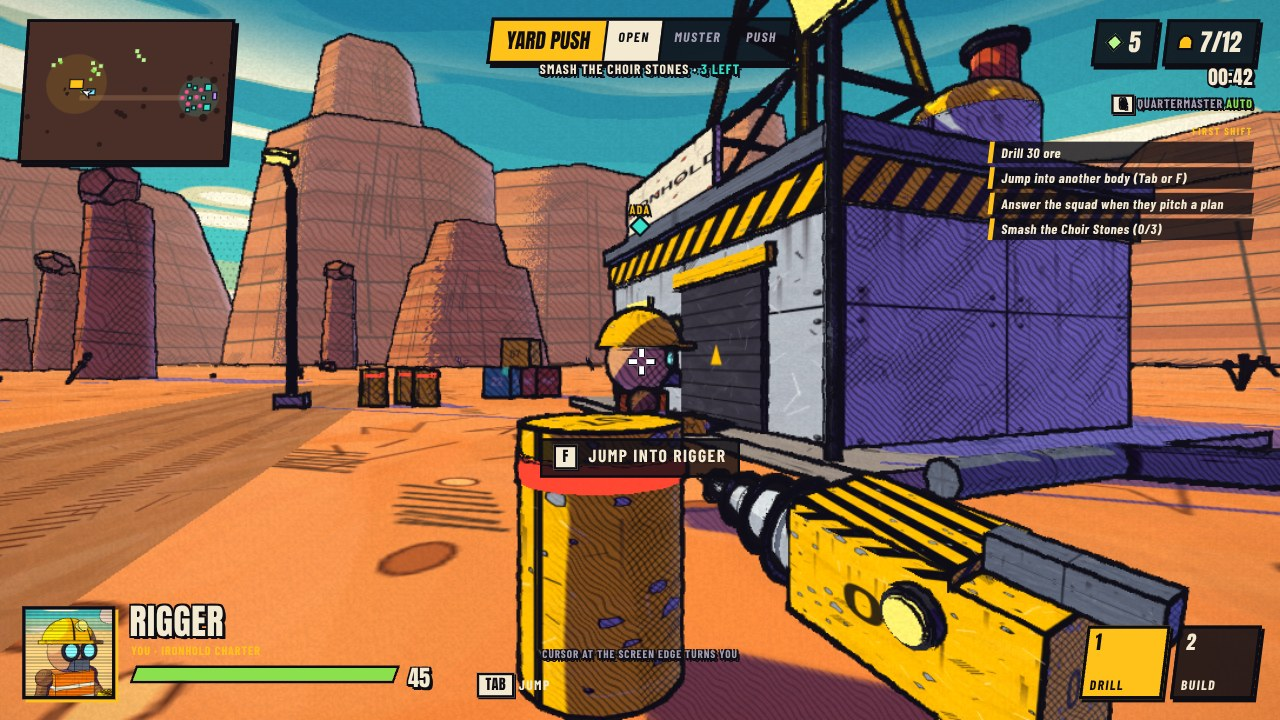
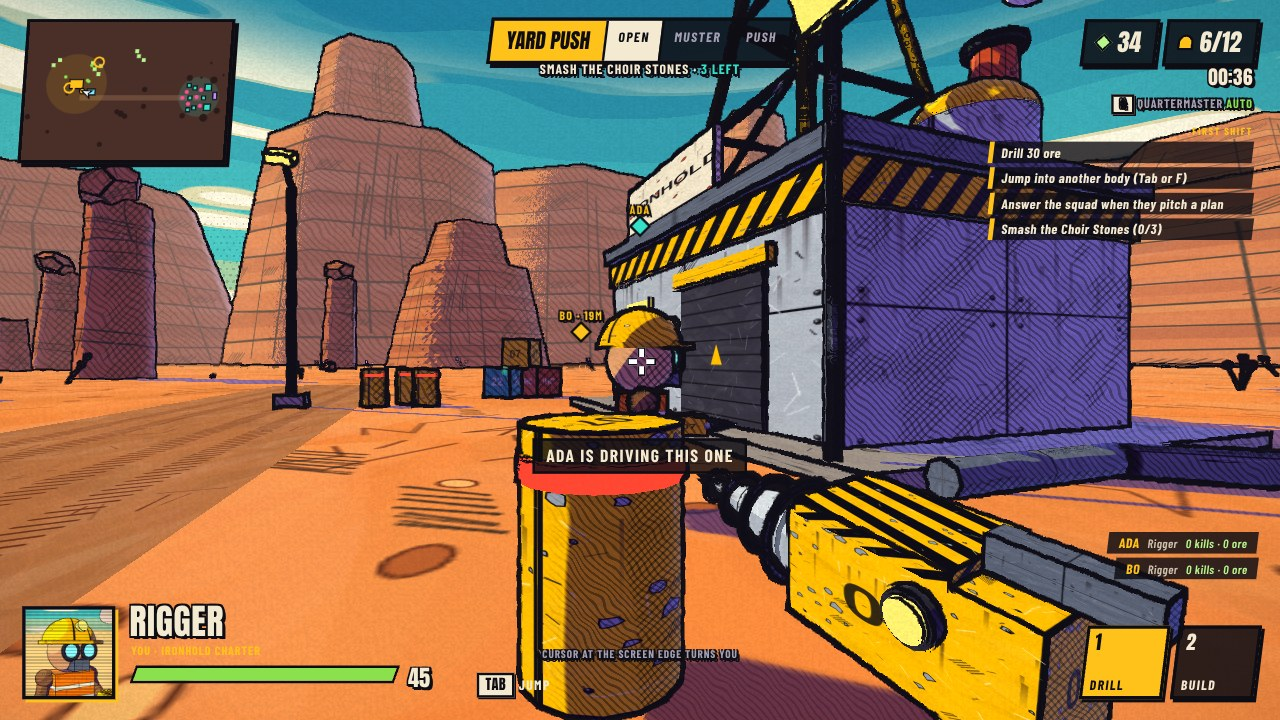
Pings, crew chat, a scoreboard and joining a match in progress
Claude-Session: https://claude.ai/code/session_0142VVw8JKAYPWdtfWeaFFSQ

diff --git a/src/netgame.ts b/src/netgame.ts
@@ -22,7 +22,7 @@ export function buildSnap(g: Game) {
   return {
     t: 's', time: r1(g.time), ore: Math.floor(g.ore), up: UPS.reduce((a, k, i) => a | (g.up[k] ? 1 << i : 0), 0), o: g.ores.map(n => Math.round(n.amount)), u, b,
     d: [r1(D.raidIn), D.raidDir === 'north' ? 1 : 0, D.raidLive ? 1 : 0, D.auto ? 1 : 0, D.plan ? [D.plan.phase, r1(D.plan.t), D.plan.label, D.plan.book] : 0, D.callout ? [D.callout.who, D.callout.text, r1(D.callout.t), D.callout.dur, D.callout.keys] : 0, [D.playbook.name, D.playbook.steps, D.playbook.idx]],
-    st: [Math.floor(st.mined), st.built, st.kills, st.lost], e,
+    st: [Math.floor(st.mined), st.built, st.kills, st.lost], e, sc: Object.keys(g.score).map(k => [+k, g.score[+k][0], Math.floor(g.score[+k][1]), g.score[+k][2]]),
   };
 }
 
@@ -42,12 +42,14 @@ export function serverCmd(g: Game, pid: number, unit: Unit | null, c: any[]) {
   else if (k === 'up') { const u = UPGRADES.find(x => x.key === c[1]); if (u && g.ownB(u.at, true).length) { g.feedTo = pid; g.buyUpgrade(u.key, true); g.feedTo = 0; } }
   else if (k === 'pl') {
     const kind = c[1] as BKind, x = Math.round(num(2)), z = Math.round(num(3)), rot = !!c[4]; if (!BUILDABLE.includes(kind as any)) return;
-    if (g.unlocked(kind) && g.canPlace(kind, x, z, rot) && g.ore >= BLD[kind].cost) { g.place(kind, x, z, rot); g.feedTo = pid; g.feed('Quartermaster', `${BLD[kind].name} staked out. Hold the drill on it to speed things up.`, ''); g.feedTo = 0; }
+    if (g.unlocked(kind) && g.canPlace(kind, x, z, rot) && g.ore >= BLD[kind].cost) { g.place(kind, x, z, rot); if (g.score[pid]) g.score[pid][2]++; g.feedTo = pid; g.feed('Quartermaster', `${BLD[kind].name} staked out. Hold the drill on it to speed things up.`, ''); g.feedTo = 0; }
     else { g.feedTo = pid; g.feed('Quartermaster', `Could not stake out that ${BLD[kind].name}. Somebody beat you to the spot or the ore.`, 'al'); g.feedTo = 0; }
   }
-  else if (k === 'mn') { const n = g.ores[num(1)]; if (!n || !unit || unit.kind !== 'rigger') return; const a = Math.max(0, Math.min(3, num(2), n.amount)); n.amount -= a; g.ore += a; g.stats.mined += a; }
+  else if (k === 'mn') { const n = g.ores[num(1)]; if (!n || !unit || unit.kind !== 'rigger') return; const a = Math.max(0, Math.min(3, num(2), n.amount)); n.amount -= a; g.ore += a; g.stats.mined += a; if (g.score[pid]) g.score[pid][1] += a; }
   else if (k === 'wd') { const b = g.buildings.find(x => x.id === num(1)); if (b && b.alive && b.team === 0 && !b.built) b.progress += Math.min(.6, Math.max(0, num(2))) / BLD[b.kind].time * 1.6; }
   else if (k === 'fx') { const b = g.buildings.find(x => x.id === num(1)); if (b && b.alive && b.team === 0 && b.built) b.hp = Math.min(b.maxHp, b.hp + 40 * Math.min(.6, Math.max(0, num(2)))); }
+  else if (k === 'pg') { const x = Math.max(-400, Math.min(400, num(1))), z = Math.max(-400, Math.min(400, num(2))); g.evq!.push(['pg', pid, x, z]); }
+  else if (k === 'ch') { const t = String(c[1] || '').replace(/[<>&]/g, '').trim().slice(0, 120); if (t) g.evq!.push(['fd', g.names[pid] || 'Crew', t, 'ch']); }
   else if (k === 'pt') { if (unit && unit.kind === 'patch') g.patchUp(unit); }
   else if (k === 'or') { const o = String(c[1]); if ('GVMXZC'.includes(o) && o.length === 1) g.dir.order(o, num(2), num(3), unit); }
 }
@@ -62,7 +64,10 @@ export function serverMove(g: Game, unit: Unit, m: any[]) {
 // ---------------------------------------------------------------- client: snapshot to world
 function event(g: Game, e: any[]) {
   const net = g.net!, k = e[0];
-  if (k === 'fd') { if (!e[4] || e[4] === net.id) { g.hud.feed(e[1], e[2], e[3]); babble(e[1], String(e[2]).length); } }
+  if (k === 'fd') { if (!e[4] || e[4] === net.id) { g.hud.feed(e[1], e[2], e[3]); if (e[3] === 'ch') sfx.blip(); else babble(e[1], String(e[2]).length); } }
+  else if (k === 'pg') { g.pings.push({ pid: e[1], x: e[2], z: e[3], t: 8 }); if (g.pings.length > 8) g.pings.shift(); sfx.callout(); }
+  else if (k === 'nm') { g.names = e[1]; }
+  else if (k === 'ph') { for (const r of e[1]) { const p = g.props[r[0]]; if (p && p.alive && p.hp > r[1]) g.damageProp(p, p.hp - r[1], null); } }
   else if (k === 'tr') { if (e[9] !== net.id) g.tracer(V3(e[1], e[2], e[3]), V3(e[4], e[5], e[6]), e[7] ? beamMat : tracerMat, e[8]); }
   else if (k === 'ex') g.explode(V3(e[1], e[2], e[3]), -2, 0, e[4], null, !!e[5]);
   else if (k === 'pj') { if (e[10] !== net.id) g.shoot(V3(e[1], e[2], e[3]), V3(e[4], e[5], e[6]), e[7], 0, !!e[8], null, e[9]); }
@@ -77,6 +82,7 @@ export function applySnap(g: Game, s: any) {
   for (const e of s.e) event(g, e);
   g.time = s.time; g.ore = s.ore; UPS.forEach((k, i) => { g.up[k] = !!(s.up & (1 << i)); });
   g.ores.forEach((n, i) => { const a = s.o[i]; if (a !== undefined && a !== n.amount) { n.amount = a; g.oreCheck(n); } });
+  if (s.sc) { g.score = {}; for (const r of s.sc) g.score[r[0]] = [r[1], r[2], r[3]]; }
   g.stats.mined = s.st[0]; g.stats.built = s.st[1]; g.stats.kills = s.st[2]; g.stats.lost = s.st[3];
   const seen = new Set<number>();
   for (const r of s.u) {
@@ -133,6 +139,7 @@ export function netTick(g: Game, dt: number) {
   if (me && me.alive) for (const o of g.units) { if (o === me || !o.alive) continue; const dx = me.pos.x - o.pos.x, dz = me.pos.z - o.pos.z, lim = (UNIT[me.kind].rad + UNIT[o.kind].rad) * (o.team === me.team ? 1.1 : 1.25), d2 = dx * dx + dz * dz; if (d2 < lim * lim && d2 > 1e-5) { const d = Math.sqrt(d2); me.pos.x += dx / d * (lim - d); me.pos.z += dz / d * (lim - d); } }
   // damaged friendly buildings smoke, as they do offline
   for (const b of g.buildings) if (b.alive && b.built && b.team === 0 && b.hp < b.maxHp * .5) { b.smokeT -= dt; if (b.smokeT <= 0) { const bad = b.hp < b.maxHp * .25; b.smokeT = bad ? .18 : .4; g.puff(V3(b.pos.x + R(-b.hx, b.hx) * .6, b.h * R(.6, 1), b.pos.z + R(-b.hz, b.hz) * .6), 1, 1.5, bad && Math.random() < .5 ? M.fire : M.smoke, 2.4, .5); } }
+  for (let i = g.pings.length - 1; i >= 0; i--) if ((g.pings[i].t -= dt) <= 0) g.pings.splice(i, 1);
   const D = g.dir; D.raidIn -= dt; if (D.callout) D.callout.t -= dt; if (D.plan) D.plan.t -= dt;
   net.sendT -= dt;
   if (net.sendT <= 0) {

diff --git a/server/main.ts b/server/main.ts
@@ -18,7 +18,7 @@ const pagePath = [join(here, 'index.html'), join(here, '..', 'dist', 'index.html
 let page = pagePath ? readFileSync(pagePath) : Buffer.from('Ore Else server is running, but the game page was not built. Run npm run build.');
 
 interface Player { id: number; name: string; ready: boolean; ws: WebSocket; lobby: Lobby | null; unit: Unit | null; inbox: any[]; alive: boolean }
-interface Lobby { code: string; host: number; map: number; diff: number; players: Player[]; game: Game | null; tick: number; idle: number }
+interface Lobby { code: string; host: number; map: number; diff: number; players: Player[]; game: Game | null; tick: number; idle: number; hp0: number[] }
 const lobbies = new Map<string, Lobby>(); let nextPid = 1;
 const send = (p: Player, o: any) => { if (p.ws.readyState === 1) p.ws.send(JSON.stringify(o)); };
 const cleanName = (s: any) => String(s || '').replace(/[^\w \-'.]/g, '').trim().slice(0, 14) || 'Rigger';
@@ -28,7 +28,7 @@ function tell(l: Lobby) { for (const p of l.players) send(p, { t: 'lobby', code:
 function leave(p: Player) {
   const l = p.lobby; if (!l) return; p.lobby = null;
   if (p.unit && l.game) release(l.game, p);
-  l.players = l.players.filter(x => x !== p);
+  l.players = l.players.filter(x => x !== p); if (l.game) { delete l.game.names[p.id]; l.game.evq!.push(['nm', l.game.names]); l.game.coop = Math.max(1, l.players.length); }
   if (l.game && l.players.length) l.game.feed('Signal', `${p.name} clocked off. Their crew is back on the roster.`, 'al');
   if (!l.players.length) { lobbies.delete(l.code); return; }
   if (l.host === p.id) l.host = l.players[0].id;
@@ -40,11 +40,20 @@ function pilot(g: Game, p: Player, u: Unit) { if (p.unit && p.unit !== u) releas
 
 function begin(l: Lobby) {
   setMap(l.map); const g = new Game(noPipe(), noHud, DIFFS[l.diff], l.map); g.noRender = true; g.evq = []; g.coop = l.players.length; g.me = null; g.phase = 'play';
-  l.game = g; l.tick = 0; const names: Record<number, string> = {}; for (const p of l.players) names[p.id] = p.name; g.names = names;
+  l.game = g; l.tick = 0; l.hp0 = g.props.map(q => q.hp); const names: Record<number, string> = {}; for (const p of l.players) { names[p.id] = p.name; g.score[p.id] = [0, 0, 0]; } g.names = names;
   const riggers = g.own('rigger'); l.players.forEach((p, i) => { p.inbox = []; p.unit = null; pilot(g, p, riggers[i % riggers.length]); });
   for (const p of l.players) send(p, { t: 'begin', map: l.map, diff: l.diff, unit: p.unit!.id, names });
   g.feed('Quartermaster', l.players.length > 1 ? `${l.players.length} of you on one payroll. The Veyl have noticed and are sending more.` : 'Just you tonight. Clock in.', 'in');
   tell(l);
+}
+/** A player arrives while the shift is running: a late start, or coming back after a dropped connection. */
+function joinLive(l: Lobby, p: Player) {
+  const g = l.game!; setMap(l.map); p.inbox = []; p.unit = null; l.players.push(p); p.lobby = l; p.ready = true;
+  g.names[p.id] = p.name; if (!g.score[p.id]) g.score[p.id] = [0, 0, 0]; g.coop = l.players.length;
+  const u = g.own('rigger').find(x => !x.pilot) || g.soldiers().find(x => !x.pilot) || g.spawn('rigger', 0, 2 + Math.random() * 3, 7 + Math.random() * 2); pilot(g, p, u);
+  const ph: number[][] = []; g.props.forEach((q, i) => { if (!q.alive) ph.push([i, 0]); else if (q.hp < l.hp0[i]) ph.push([i, Math.ceil(q.hp)]); });
+  send(p, { t: 'begin', map: l.map, diff: l.diff, unit: u.id, names: g.names, ph });
+  g.evq!.push(['nm', g.names]); g.feed('Signal', `${p.name} clocked in late. Docked accordingly.`, 'in'); tell(l);
 }
 function step(l: Lobby) {
   const g = l.game!; setMap(l.map);
@@ -87,13 +96,13 @@ wss.on('connection', ws => {
     if (m.t === 'in') { if (l && l.game && p.inbox.length < 30) p.inbox.push(m); return; }
     if (m.t === 'create') {
       if (l) leave(p); if (lobbies.size >= MAX_LOBBIES) { send(p, { t: 'err', msg: 'The server is full. Try again in a few minutes.' }); return; }
-      p.name = cleanName(m.name); p.ready = false; const nl: Lobby = { code: newCode(), host: p.id, map: 0, diff: 1, players: [p], game: null, tick: 0, idle: 0 }; lobbies.set(nl.code, nl); p.lobby = nl; tell(nl);
+      p.name = cleanName(m.name); p.ready = false; const nl: Lobby = { code: newCode(), host: p.id, map: 0, diff: 1, players: [p], game: null, tick: 0, idle: 0, hp0: [] }; lobbies.set(nl.code, nl); p.lobby = nl; tell(nl);
     } else if (m.t === 'join') {
       if (l) leave(p); const jl = lobbies.get(String(m.code || '').toUpperCase().trim());
       if (!jl) { send(p, { t: 'err', msg: 'No lobby with that code. Check the five letters.' }); return; }
       if (jl.players.length >= MAX_PLAYERS) { send(p, { t: 'err', msg: 'That lobby is full.' }); return; }
-      if (jl.game) { send(p, { t: 'err', msg: 'That crew is mid-shift. Ask them for the code again when they finish.' }); return; }
-      p.name = cleanName(m.name); p.ready = false; jl.players.push(p); p.lobby = jl; tell(jl);
+      p.name = cleanName(m.name); if (jl.game) { joinLive(jl, p); return; }
+      p.ready = false; jl.players.push(p); p.lobby = jl; tell(jl);
     } else if (!l) return;
     else if (m.t === 'leave') { leave(p); send(p, { t: 'lobby', code: '', you: p.id, host: 0, map: 0, diff: 1, state: 'lobby', players: [] }); }
     else if (m.t === 'ready') { p.ready = !!m.v; tell(l); }

diff --git a/src/hud.ts b/src/hud.ts
@@ -103,6 +103,7 @@ export class Hud {
     let bi = 0, li = 0;
     const bar = (p: THREE.Vector3, y: number, frac: number, cls: string) => { if (bi >= this.bars.length) return; V.set(p.x, y, p.z); const q = V.clone(); if (!this.project(q, cam)) return; const b = this.bars[bi]; if (b.className !== cls) b.className = cls; b.hidden = false; b.style.transform = `translate(${V.x.toFixed(1)}px,${V.y.toFixed(1)}px)`; this.barFill[bi].style.width = Math.max(0, Math.min(1, frac)) * 100 + '%'; bi++; };
     const lab = (p: THREE.Vector3, y: number, html: string) => { if (li >= this.labs.length) return; const q = new THREE.Vector3(p.x, y, p.z); if (!this.project(q, cam)) return; const l = this.labs[li]; l.hidden = false; l.style.transform = `translate(${Math.max(150, Math.min(this.W - 150, V.x)).toFixed(1)}px,${Math.max(130, V.y).toFixed(1)}px)`; const k = 'l' + li; if (this.cache.get(k) !== html) { this.cache.set(k, html); l.firstElementChild!.innerHTML = html; } li++; };
+    for (const p of g.pings) lab(V.set(p.x, 0, p.z).clone(), 2.2, `<div class="mark ping out">${g.names[p.pid] || 'Ping'} · ${Math.round(Math.hypot(p.x - me.pos.x, p.z - me.pos.z))}m</div>`);
     for (const u of g.units as Unit[]) {
       if (!u.alive || u === me && !tab) continue; const d = u.pos.distanceTo(me.pos);
       if (u.pilot && u !== me && g.names[u.pilot] && d < 120) lab(u.pos, UNIT[u.kind].headY + 1.25, `<div class="mark out" style="color:var(--yel)">${g.names[u.pilot]}</div>`);
@@ -133,9 +134,14 @@ export class Hud {
       const pop = k < .15 ? .6 + k / .15 * .6 : 1.2 - Math.min(1, (k - .15) * 2) * .2; f.el.style.opacity = k > .7 ? ((1 - k) / .3).toFixed(2) : '1'; f.el.style.transform = `translate(${V.x.toFixed(1)}px,${V.y.toFixed(1)}px) translate(-50%,-50%) scale(${pop.toFixed(2)}) rotate(-6deg)`;
     }
     // minimap
-    this.miniT -= dt; if (this.miniT <= 0) { this.miniT = .12; this.drawMini(g); }
+    this.miniT -= dt; if (this.miniT <= 0) { this.miniT = .12; this.drawMini(g); this.crew(g); }
   }
 
+  private crew(g: Game) {
+    const el = $('crew'); if (!g.net) { if (!el.hidden) el.hidden = true; return; }
+    const html = Object.keys(g.names).map(k => { const id = +k, u = (g.units as Unit[]).find(x => x.alive && x.pilot === id), s = g.score[id] || [0, 0, 0]; return `<div class="${id === g.net!.id ? 'me' : ''}"><b>${g.names[id]}</b><span>${u ? UNIT[u.kind].name : 'Down'}</span><em>${s[0]} kills · ${s[1]} ore</em></div>`; }).join('');
+    if (this.cache.get('crew') !== html) { this.cache.set('crew', html); el.innerHTML = html; } el.hidden = false;
+  }
   private drawMini(g: Game) {
     const c = this.mini, S = 260, span = Math.max(200, Math.abs(OUTPOST.x) + 76, (Math.abs(OUTPOST.z) + 70) / .69), x0 = OUTPOST.x / 2 - span / 2 + (MAP === MAPS[0] ? -12 : 0), z0 = OUTPOST.z / 2 - span * .345 + (MAP === MAPS[0] ? .5 : 0), k = S / span, X = (x: number) => (x - x0) * k, Z = (z: number) => (z - z0) * k;
     c.fillStyle = '#4a2f29'; c.fillRect(0, 0, S, 180);
@@ -147,6 +153,8 @@ export class Hud {
     c.lineWidth = 1.5; c.strokeStyle = '#0e0d14';
     for (const b of g.buildings) { if (!b.alive) continue; const w = Math.max(5, b.hx * 2 * k), h = Math.max(5, b.hz * 2 * k); c.fillStyle = b.kind === 'reedgate' ? '#c58bff' : b.team ? '#35e0c8' : b.built ? '#ffc21a' : '#7ef0ff'; c.fillRect(X(b.pos.x) - w / 2, Z(b.pos.z) - h / 2, w, h); c.strokeRect(X(b.pos.x) - w / 2, Z(b.pos.z) - h / 2, w, h); }
     for (const u of g.units) { if (!u.alive || u === g.me) continue; c.fillStyle = u.team ? '#ff4f9a' : u.kind === 'rigger' ? '#8be04e' : '#f4ead2'; c.beginPath(); c.arc(X(u.pos.x), Z(u.pos.z), u.kind === 'warden' ? 5 : u.team ? 2.6 : 2.2, 0, 7); c.fill(); }
+    for (const p of g.pings) { c.strokeStyle = '#ffc21a'; c.lineWidth = 2.5; c.beginPath(); c.arc(X(p.x), Z(p.z), 4 + (8 - p.t) % 1 * 7, 0, 7); c.stroke(); }
+    for (const u of g.units) if (u.alive && u.pilot && u !== g.me) { c.fillStyle = '#ffc21a'; c.strokeStyle = '#0e0d14'; c.lineWidth = 1.5; c.beginPath(); c.arc(X(u.pos.x), Z(u.pos.z), 3.6, 0, 7); c.fill(); c.stroke(); }
     const D = g.dir; if ((D.raidIn < 15 || D.raidLive) && g.stones().length && Math.floor(performance.now() / 300) % 2) { c.fillStyle = '#ff4b3a'; c.strokeStyle = '#0e0d14'; c.lineWidth = 2; c.beginPath(); { const n = NORTH_PATH.length, p = D.raidDir === 'north' ? [(NORTH_PATH[n - 1][0] + NORTH_PATH[n - 2][0]) / 2, (NORTH_PATH[n - 1][1] + NORTH_PATH[n - 2][1]) / 2] : roadPt(62), a = Math.atan2(-p[1], -p[0]); c.moveTo(X(p[0]) + Math.cos(a) * 9, Z(p[1]) + Math.sin(a) * 9); c.lineTo(X(p[0]) + Math.cos(a + 2.4) * 8, Z(p[1]) + Math.sin(a + 2.4) * 8); c.lineTo(X(p[0]) + Math.cos(a - 2.4) * 8, Z(p[1]) + Math.sin(a - 2.4) * 8); } c.closePath(); c.fill(); c.stroke(); }
     if (this.pingT > 0) { c.strokeStyle = '#ffc21a'; c.lineWidth = 2; c.beginPath(); c.arc(X(this.pingPos.x), Z(this.pingPos.z), 5, 0, 7); c.stroke(); }
     const me = g.me; if (me) { c.save(); c.translate(X(me.pos.x), Z(me.pos.z)); c.rotate(-g.yaw); c.fillStyle = '#fff'; c.strokeStyle = '#0e0d14'; c.lineWidth = 1.5; c.beginPath(); c.moveTo(0, 8); c.lineTo(5, -5); c.lineTo(0, -2); c.lineTo(-5, -5); c.closePath(); c.fill(); c.stroke(); c.restore(); }

diff --git a/src/main.ts b/src/main.ts
@@ -54,7 +54,13 @@ window.addEventListener('resize', resize);
 // ---------------------------------------------------------------- input
 const locked = () => document.pointerLockElement === canvas;
 const live = () => game.phase === 'play' || game.phase === 'card';
+let lastCode = '';
+const chat = $('chat') as HTMLInputElement;
+const chatClose = () => { chat.hidden = true; chat.value = ''; chat.blur(); };
+chat.addEventListener('keydown', e => { e.stopPropagation(); if (e.key === 'Enter') { const t = chat.value.trim(); if (t && game.net) game.net.cmd('ch', t); chatClose(); } else if (e.key === 'Escape') { e.preventDefault(); chatClose(); } });
+chat.addEventListener('keyup', e => e.stopPropagation()); chat.addEventListener('blur', () => { chat.hidden = true; });
 addEventListener('keydown', e => {
+  if (game.net && game.phase === 'play' && e.code === 'Enter') { e.preventDefault(); game.keys.clear(); chat.hidden = false; chat.focus(); return; }
   if (live()) { if (!e.ctrlKey && !e.metaKey && e.code !== 'Escape' && !/^F\d/.test(e.code)) e.preventDefault(); if (!e.repeat) game.pressed.add(e.code); game.keys.add(e.code); }
   if (e.code === 'Escape' && freeMouse) { if (game.phase === 'play') pause(); else if (game.phase === 'paused') resume(); }
 });
@@ -120,10 +126,10 @@ async function mpConnect(then: (n: Net) => void) {
   if (!srv) { mErr('This copy of the game is not on a game server, so there is nobody to connect to. Open the game from its server address, or paste a server address above.'); return; }
   if (net && net.open) { then(net); return; }
   mErr('Connecting...'); const n = new Net();
-  n.onLobby = l => { showLobby(l); if (l.code) mErr(''); }; n.onError = m => mErr(m);
-  n.onClose = () => { net = null; if (game.net) { game.net = null; toMenu(); } showMode(); mErr('Lost the connection to the server.'); };
+  n.onLobby = l => { showLobby(l); if (l.code) { mErr(''); lastCode = l.code; } }; n.onError = m => mErr(m);
+  n.onClose = () => { net = null; if (game.net) { game.net = null; toMenu(); } showMode(); if (lastCode) { mCode.value = lastCode; mErr('Lost the connection. Press Join to get back into lobby ' + lastCode + '.'); } else mErr('Lost the connection to the server.'); };
   n.onBegin = m => {
-    mode = 'multi'; hud.reset(); game = new Game(pipe, hud, DIFFS[m.diff], m.map, null, n); game.sens = sens; game.names = m.names; ended = false; (window as any).__ore.game = game;
+    mode = 'multi'; hud.reset(); game = new Game(pipe, hud, DIFFS[m.diff], m.map, null, n); game.sens = sens; game.names = m.names; if (m.ph) { game.applying = true; for (const r of m.ph) { const q = game.props[r[0]]; if (q && q.alive && q.hp > r[1]) game.damageProp(q, q.hp - r[1], null); } game.applying = false; } ended = false; (window as any).__ore.game = game;
     initAudio(); setVolume(vol); setMusic(mus); $('menu').hidden = true; $('pause').hidden = true; $('end').hidden = true; hud.show(true); game.phase = 'play'; game.introT = 1.8; lock();
   };
   try { await n.connect(srv); net = n; mErr(''); then(n); } catch (e) { mErr(String((e as Error).message || e) + ' Check the server address.'); }

diff --git a/src/game.ts b/src/game.ts
@@ -95,7 +95,7 @@ export class Game {
   // ------------------------------------------------------------ entities
   /** Multiplayer server: things clients need to see or hear, queued until the next snapshot. */
   uById = new Map<number, Unit>(); bById = new Map<number, Building>();
-  evq: any[] | null = null; coop = 1; applying = false; names: Record<number, string> = {}; feedTo = 0;
+  evq: any[] | null = null; coop = 1; applying = false; names: Record<number, string> = {}; feedTo = 0; score: Record<number, number[]> = {}; pings: { x: number; z: number; t: number; pid: number }[] = [];
   spawn(kind: Kind, team: number, x: number, z: number, id = 0): Unit {
     const md = MD.unit(kind), st = UNIT[kind], hp = st.hp * (team === 0 ? this.armorMul() : 1);
     const rs = st.rad * 3.6, ring = mk(G.ringG, ringMat, [0, .08, 0], [rs, rs, 1], [-Math.PI / 2, 0, 0], md.obj); ring.layers.set(L_FX); ring.visible = false;
@@ -211,7 +211,7 @@ export class Game {
   }
   quiet = false;
   killUnit(u: Unit, from: Unit | Building | null) {
-    if (this.evq) this.evq.push(['ku', u.id, from ? from.id : 0]);
+    if (this.evq) { this.evq.push(['ku', u.id, from ? from.id : 0]); const kp = from && (from as Unit).pilot; if (kp && u.team === 1 && this.score[kp]) this.score[kp][0]++; }
     if (u.kind === 'gantry' && u.alive && !this.net) { u.alive = false; this.explode(V3(u.pos.x, 0, u.pos.z), 0, 40, 6, null); u.alive = true; }
     u.alive = false; const veyl = u.team === 1, v = this.vol(u.pos), st = UNIT[u.kind], c = V3(u.pos.x, st.bodyY, u.pos.z);
     this.puff(c, veyl ? 6 : 4, st.rad * 1.4, veyl ? M.teal : M.dust); this.debris(c, veyl ? 7 : 3, .22, veyl ? M.crys : M.steelD, 5); sfx.ko(v, veyl);
@@ -391,6 +391,7 @@ export class Game {
     this.fireCd -= dt; this.recoil = Math.max(0, this.recoil - dt * 6); this.nadeCd = Math.max(0, this.nadeCd - dt); this.bashCd = Math.max(0, this.bashCd - dt); this.bashT = Math.max(0, this.bashT - dt);
     const eye = V3(me.pos.x, UNIT[me.kind].eye, me.pos.z), dir = this.lookDir(V3());
     this.prompt = '';
+    if (this.net && P.has('KeyT')) { const pp = V3(); if (!this.groundPoint(pp, 400)) pp.set(me.pos.x + dir.x * 40, 0, me.pos.z + dir.z * 40); this.net.cmd('pg', Math.round(pp.x), Math.round(pp.z)); }
     if (P.has('KeyQ') && this.lastBody?.alive) { this.possess(this.lastBody); return; }
     const look = this.ray(eye, dir, 70, -1, me);
     if (look?.unit && look.unit.team === 0 && look.unit.pilot) this.prompt = `${this.names[look.unit.pilot] || 'A crewmate'} is driving this one`; else if (look?.unit && look.unit.team === 0) { this.prompt = `<b>F</b> Jump into ${UNIT[look.unit.kind].name}`; if (P.has('KeyF')) { this.possess(look.unit); return; } }

diff --git a/src/style.css b/src/style.css
@@ -247,3 +247,10 @@ body{background:var(--bg);color:var(--paper);font-family:var(--cond);font-size:1
 .go:disabled{opacity:.5;cursor:not-allowed}
 
 #mPlayers button[disabled]{opacity:1;cursor:default}
+
+.crew{right:28px;bottom:176px;display:flex;flex-direction:column;gap:5px;align-items:flex-end}
+.crew div{background:rgba(14,13,20,.84);border-right:6px solid var(--cream);padding:3px 12px 4px 14px;transform:skewX(-7deg);font-size:15px;font-weight:600;letter-spacing:.04em;display:flex;gap:10px;align-items:baseline}
+.crew div.me{border-color:var(--yel)}
+.crew b{color:var(--yel);text-transform:uppercase;font-size:17px}.crew span{opacity:.8}.crew em{font-style:normal;color:var(--ore)}
+.chat{left:28px;bottom:150px;width:440px;font:600 20px inherit;font-family:inherit;color:var(--cream);background:rgba(14,13,20,.92);border:3px solid var(--yel);padding:8px 12px;outline:none;pointer-events:auto}
+.feed .ch{border-color:var(--teal)}.feed .ch b{color:var(--teal)}

diff --git a/src/net.ts b/src/net.ts
@@ -7,7 +7,7 @@ export class Net {
   /** Snapshots and other in-match messages wait here until the game loop is ready for them. */
   inbox: any[] = []; out: any[][] = []; sendT = 0; lastSnap = 0;
   onLobby: (l: Lobby) => void = () => { /* set by the menu */ };
-  onBegin: (m: { map: number; diff: number; unit: number; names: Record<number, string> }) => void = () => { /* set by the menu */ };
+  onBegin: (m: { map: number; diff: number; unit: number; names: Record<number, string>; ph?: number[][] }) => void = () => { /* set by the menu */ };
   onError: (msg: string) => void = () => { /* set by the menu */ };
   onClose: () => void = () => { /* set by the menu */ };
 

diff --git a/src/page.html b/src/page.html
@@ -19,6 +19,8 @@
       <div class="clock d out" id="clock">00:00</div>
       <div class="qm c out" id="qm"></div>
       <div class="feed" id="feed"></div>
+      <div class="crew" id="crew" hidden></div>
+      <input class="chat" id="chat" maxlength="120" placeholder="Say something to the crew, then Enter" hidden>
       <div class="cross" id="cross"></div>
       <div class="hitm" id="hitm"></div>
       <div class="prompt" id="prompt" hidden></div>

diff --git a/README.md b/README.md
@@ -123,6 +123,8 @@ Co-op for up to four players. Everyone shares one Ironhold base and fights the V
 
 Finish campaign job two to unlock the Multiplayer tab. One player creates a lobby and reads out the five-letter code, the others join with it, the crew readies up and the host clocks everyone in.
 
+In a match, press T to ping the spot you are looking at and Enter to type to the crew. A panel on the right shows who is driving what, with kills and ore mined. If someone drops, or turns up late, they join the running match with the same code.
+
 Multiplayer needs the game server, because the server runs the match and every player's browser is a window onto it. The server also serves the game page, so there is only one thing to host.
 
 ```
